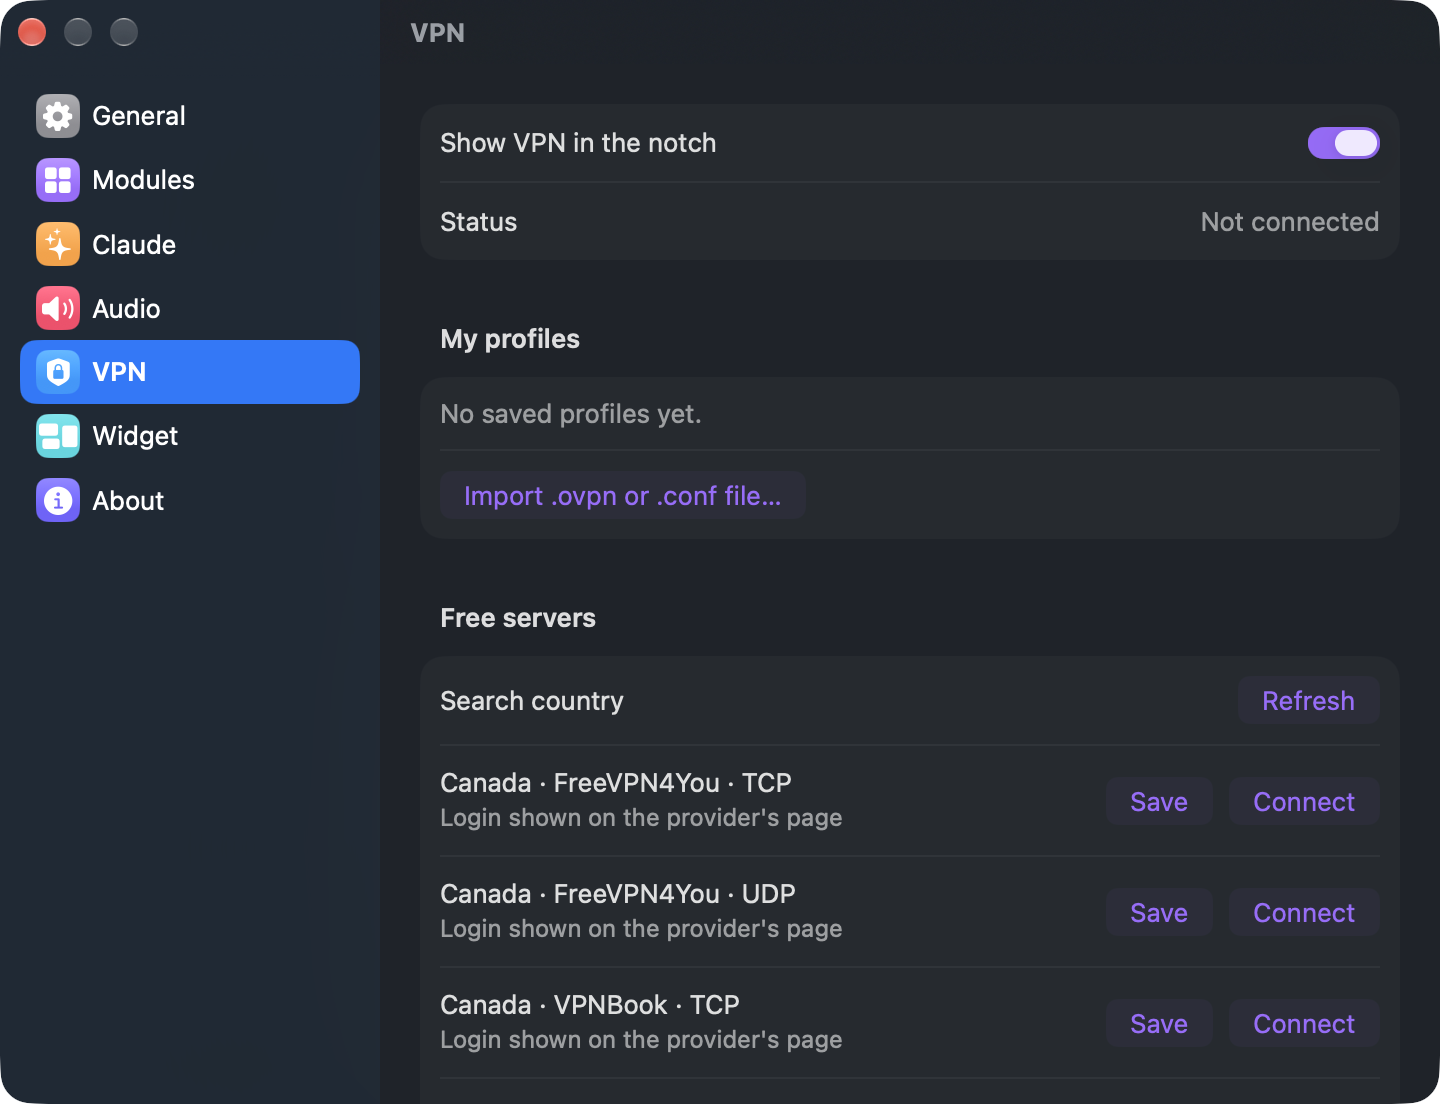
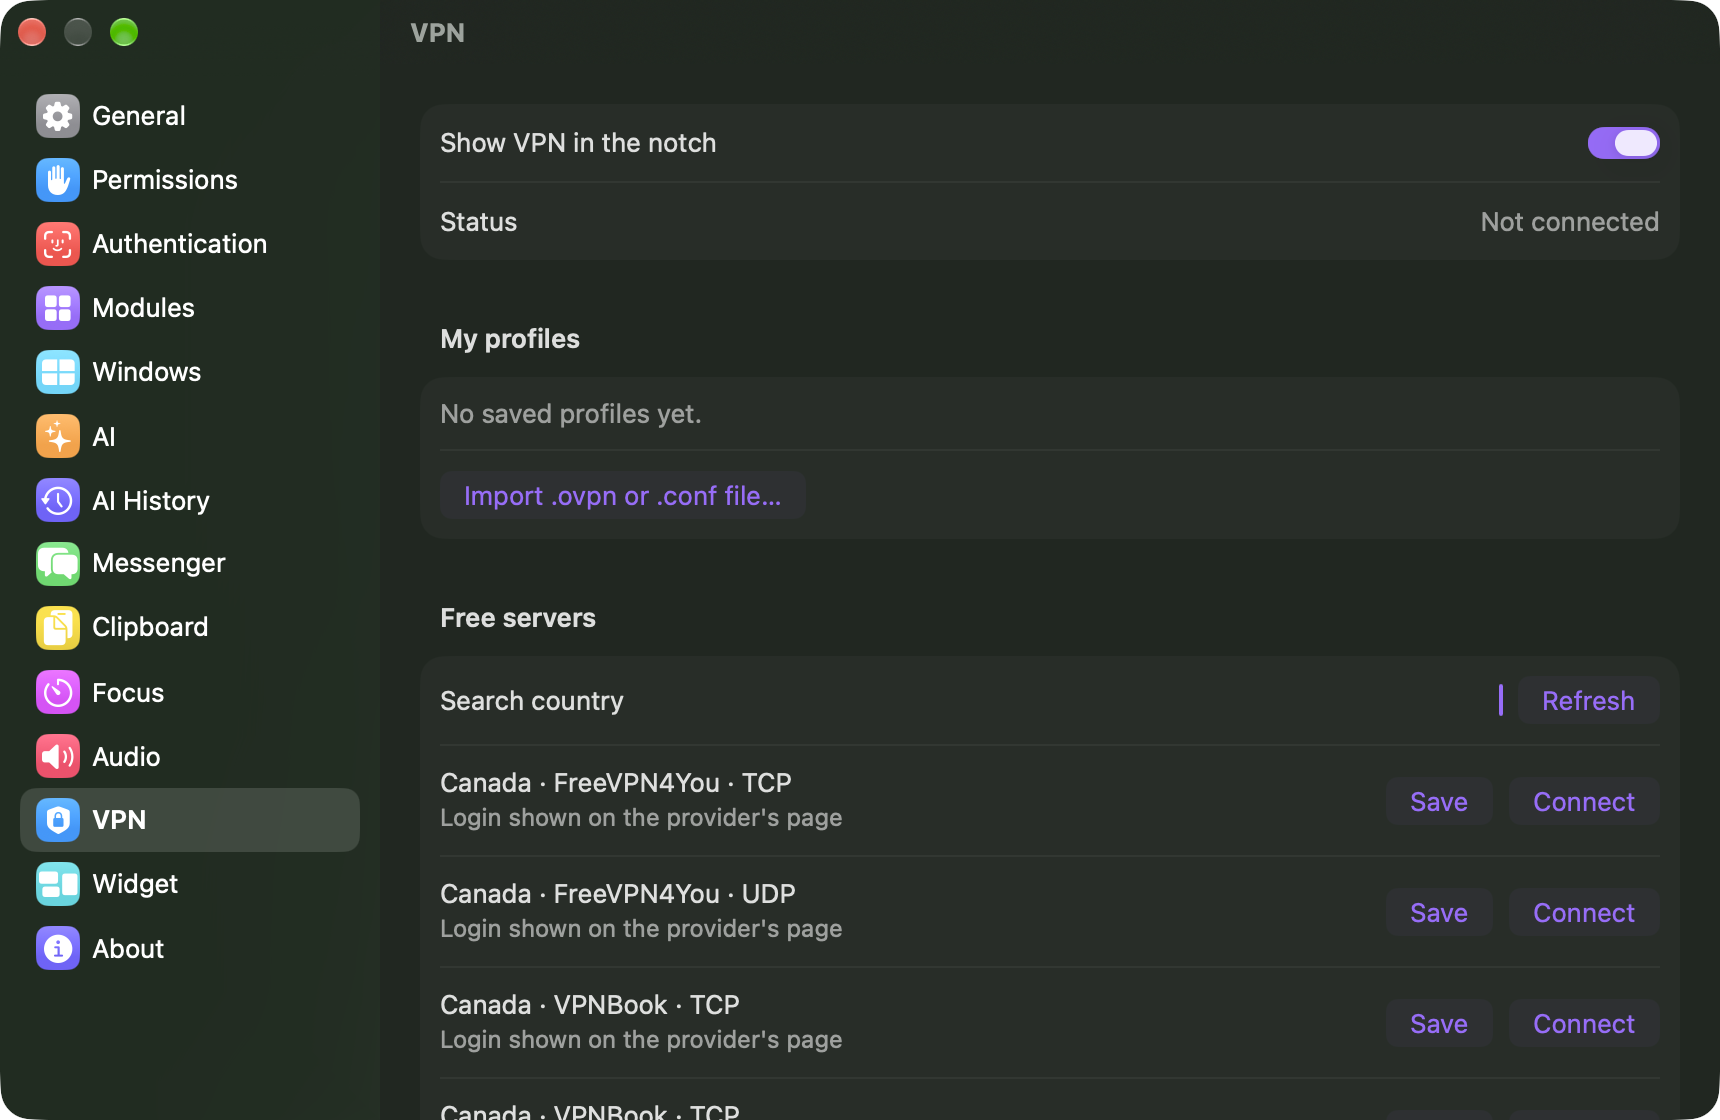
README: new screenshots with sample data (demo mode), no personal info

diff --git a/NotchApple/Core/DemoMode.swift b/NotchApple/Core/DemoMode.swift
@@ -1,0 +1,84 @@
+//
+//  DemoMode.swift
+//  Notch apple
+//
+//  Sample data for README screenshots, so they never show anyone's real
+//  clipboard, chats, notes, apps or Mac name. Only on when launched with
+//  `-demoMode YES`; nothing is read from or saved to disk while it's on.
+//
+
+import Foundation
+
+enum DemoMode {
+    static let isOn = UserDefaults.standard.bool(forKey: "demoMode")
+        && ProcessInfo.processInfo.arguments.contains("-demoMode")
+
+    static let deviceName = "MacBook Air"
+
+    static func minutesAgo(_ m: Double) -> Date { Date().addingTimeInterval(-m * 60) }
+
+    static var clipboard: [ClipItem] {
+        [
+            ClipItem(kind: .link, text: "https://github.com/AdityaJainDXB/NotchApples", sourceApp: "Safari", date: minutesAgo(1), pinned: true),
+            ClipItem(kind: .text, text: "Meeting moved to 3:30 — same room.", sourceApp: "Messages", date: minutesAgo(4)),
+            ClipItem(kind: .text, text: "brew install --cask notch-apple", sourceApp: "Terminal", date: minutesAgo(9)),
+            ClipItem(kind: .files, filePaths: ["/Users/demo/Desktop/Slides.key"], sourceApp: "Finder", date: minutesAgo(22)),
+            ClipItem(kind: .text, text: "The quick brown fox jumps over the lazy dog.", sourceApp: "Notes", date: minutesAgo(40)),
+            ClipItem(kind: .link, text: "https://developer.apple.com/design/human-interface-guidelines", sourceApp: "Safari", date: minutesAgo(65)),
+        ]
+    }
+
+    static var chats: [ChatSession] {
+        func msg(_ role: String, _ text: String, _ m: Double, model: String? = nil, shot: Bool = false) -> ChatSession.Message {
+            .init(role: role, text: text, hadScreenshot: shot, date: minutesAgo(m), model: model)
+        }
+        return [
+            ChatSession(provider: "gemini", model: "gemini-2.5-flash", started: minutesAgo(12), updated: minutesAgo(10), messages: [
+                msg("user", "Give me three ideas for a weekend project.", 12),
+                msg("assistant", "1. A tiny weather widget for your desktop.\n2. A habit tracker that lives in the menu bar.\n3. A photo booth app that turns snapshots into stickers.", 11.5, model: "gemini-2.5-flash"),
+                msg("user", "Which is the quickest to build?", 10.5),
+                msg("assistant", "The menu-bar habit tracker: one list, a checkbox per day, and a streak counter. An afternoon in SwiftUI.", 10, model: "gemini-2.5-flash"),
+            ]),
+            ChatSession(provider: "groq", model: "llama-3.3-70b-versatile", started: minutesAgo(90), updated: minutesAgo(88), messages: [
+                msg("user", "Explain what a Pomodoro timer is in one sentence.", 90),
+                msg("assistant", "It's a time-management method: 25 minutes of focused work, then a 5-minute break, repeated.", 88, model: "llama-3.3-70b-versatile"),
+            ]),
+            ChatSession(provider: "openRouter", model: "qwen/qwen3-32b:free", started: minutesAgo(300), updated: minutesAgo(298), messages: [
+                msg("user", "What's on my screen?", 300, shot: true),
+                msg("assistant", "You have a Keynote presentation open on a slide titled \"Q3 roadmap\", with three milestones in a timeline.", 298, model: "qwen/qwen3-32b:free"),
+            ]),
+        ]
+    }
+
+    static var notes: [Note] {
+        [
+            Note(text: "Weekend\n• Farmers market, 9 am\n• Call the bike shop\n• Finish the book club chapter", updated: minutesAgo(3)),
+            Note(text: "App ideas\nMenu-bar habit tracker with streaks.", updated: minutesAgo(120)),
+            Note(text: "Groceries\nOat milk, lemons, basil, pasta", updated: minutesAgo(1500)),
+        ]
+    }
+
+    static var appVolumes: [AppVolume] {
+        [
+            AppVolume(bundleID: "com.apple.Music", name: "Music", pid: -1, level: 100),
+            AppVolume(bundleID: "com.apple.Safari", name: "Safari", pid: -1, level: 70),
+            AppVolume(bundleID: "com.apple.FaceTime", name: "FaceTime", pid: -1, level: 120),
+            AppVolume(bundleID: "com.apple.podcasts", name: "Podcasts", pid: -1, level: 85),
+            AppVolume(bundleID: "com.apple.TV", name: "TV", pid: -1, level: 100),
+        ]
+    }
+
+    static var layouts: [SavedLayout] {
+        [
+            SavedLayout(name: "Coding", entries: [
+                .init(bundleID: "com.apple.dt.Xcode", appName: "Xcode", title: "", x: 0, y: 0, width: 1, height: 1),
+                .init(bundleID: "com.apple.Safari", appName: "Safari", title: "", x: 0, y: 0, width: 1, height: 1),
+                .init(bundleID: "com.apple.Terminal", appName: "Terminal", title: "", x: 0, y: 0, width: 1, height: 1),
+            ]),
+            SavedLayout(name: "Writing", entries: [
+                .init(bundleID: "com.apple.Pages", appName: "Pages", title: "", x: 0, y: 0, width: 1, height: 1),
+                .init(bundleID: "com.apple.Notes", appName: "Notes", title: "", x: 0, y: 0, width: 1, height: 1),
+            ]),
+        ]
+    }
+}

diff --git a/NotchApple/App/AppDelegate.swift b/NotchApple/App/AppDelegate.swift
@@ -35,15 +35,14 @@ final class AppDelegate: NSObject, NSApplicationDelegate {
         applyClipboardPreference()
         LiveActivityCenter.shared.start()
         showWelcomeOnFirstLaunch()
-        if SettingsManager.shared.windowsEnabled { WindowManager.shared.promptOnceIfNeeded() }
-        #if DEBUG
-        if ProcessInfo.processInfo.environment["NOTCH_PREVIEW_DROP"] != nil {
+        if SettingsManager.shared.windowsEnabled, !DemoMode.isOn { WindowManager.shared.promptOnceIfNeeded() }
+        // Screenshots: `-demoMode YES -openSettings <pane>` opens a Settings pane.
+        if DemoMode.isOn, UserDefaults.standard.bool(forKey: "showSnapZones") {
             DispatchQueue.main.asyncAfter(deadline: .now() + 1) { SnapDropController.shared.preview(.topLeft) }
         }
-        if ProcessInfo.processInfo.environment["NOTCH_PREVIEW_SETTINGS"] != nil {
-            DispatchQueue.main.asyncAfter(deadline: .now() + 1) { AppDelegate.openSettingsWindow(tab: .windows) }
+        if DemoMode.isOn, let pane = UserDefaults.standard.string(forKey: "openSettings").flatMap(SettingsTab.init(rawValue:)) {
+            DispatchQueue.main.asyncAfter(deadline: .now() + 1) { AppDelegate.openSettingsWindow(tab: pane) }
         }
-        #endif
 
         // Show/hide the status item live as the preference changes.
         applyStatusItemPreference()
@@ -72,7 +71,7 @@ final class AppDelegate: NSObject, NSApplicationDelegate {
         guard SettingsManager.shared.messengerEnabled else { return }
         MessengerNotifier.shared.requestAuthorizationIfNeeded()
         LocalP2PManager.shared.start()
-        if let room = UserDefaults.standard.string(forKey: "messenger.activeRoom") {
+        if !DemoMode.isOn, let room = UserDefaults.standard.string(forKey: "messenger.activeRoom") {
             WebP2PManager.shared.join(room)
         }
     }

diff --git a/NotchApple/Modules/Today/TodayView.swift b/NotchApple/Modules/Today/TodayView.swift
@@ -32,6 +32,20 @@ final class TodayModel: ObservableObject {
 
     func refresh(forceWeather: Bool = false) {
         battery = LiveActivityCenter.battery()
+        if DemoMode.isOn {
+            calendarAccess = .fullAccess
+            let day = Calendar.current.startOfDay(for: .now)
+            func at(_ h: Double) -> Date { day.addingTimeInterval(h * 3600) }
+            events = [
+                Event(id: "1", title: "Design review", start: .now.addingTimeInterval(-600), end: .now.addingTimeInterval(1800), isAllDay: false, color: .purple),
+                Event(id: "2", title: "Lunch with Sam", start: .now.addingTimeInterval(5400), end: .now.addingTimeInterval(9000), isAllDay: false, color: .orange),
+                Event(id: "3", title: "Gym", start: .now.addingTimeInterval(18000), end: .now.addingTimeInterval(21600), isAllDay: false, color: .green),
+            ]
+            if weather == nil || forceWeather {
+                Task { weather = try? await WeatherService.current(for: WeatherLocation(name: "Cupertino", latitude: 37.323, longitude: -122.032)) }
+            }
+            return
+        }
         loadEvents()
         LocationProvider.shared.refreshIfStale()
         // Weather changes slowly; refresh at most every 15 minutes.

diff --git a/NotchApple/Modules/Windows/WindowManager.swift b/NotchApple/Modules/Windows/WindowManager.swift
@@ -171,11 +171,7 @@ final class WindowManager: ObservableObject {
     // MARK: Permission
 
     func refreshTrust() {
-        isTrusted = AXIsProcessTrusted()
-        #if DEBUG
-        // Screenshot builds: show the full UI without the permission.
-        if ProcessInfo.processInfo.environment["NOTCH_PREVIEW_WINDOWS"] != nil { isTrusted = true }
-        #endif
+        isTrusted = AXIsProcessTrusted() || DemoMode.isOn
     }
 
     /// Shows the system prompt, which also adds Notch apple to the Accessibility
@@ -490,6 +486,7 @@ final class SavedLayoutStore: ObservableObject {
     }()
 
     private init() {
+        if DemoMode.isOn { layouts = DemoMode.layouts; return }
         if let data = try? Data(contentsOf: url), let saved = try? JSONDecoder().decode([SavedLayout].self, from: data) {
             layouts = saved
         }
@@ -499,6 +496,6 @@ final class SavedLayoutStore: ObservableObject {
     func delete(_ layout: SavedLayout) { layouts.removeAll { $0.id == layout.id }; save() }
 
     private func save() {
-        if let data = try? JSONEncoder().encode(layouts) { try? data.write(to: url, options: .atomic) }
+        if !DemoMode.isOn, let data = try? JSONEncoder().encode(layouts) { try? data.write(to: url, options: .atomic) }
     }
 }

diff --git a/NotchApple/Modules/Claude/ClaudeChatView.swift b/NotchApple/Modules/Claude/ClaudeChatView.swift
@@ -77,6 +77,12 @@ final class ClaudeChatModel: ObservableObject {
     /// Share the screen automatically when a question is about it (Settings → AI).
     @AppStorage("ai.autoScreen") var autoScreen = true
 
+    init() {
+        if DemoMode.isOn, let chat = DemoMode.chats.first {
+            messages = chat.messages.map { ChatMessage(role: $0.role == "user" ? .user : .assistant, text: $0.text) }
+        }
+    }
+
     func send() {
         let prompt = draft.trimmingCharacters(in: .whitespacesAndNewlines)
         guard !prompt.isEmpty, !isSending else { return }
@@ -290,7 +296,7 @@ struct ClaudeChatView: View {
             if let notice = model.notice {
                 Label(notice, systemImage: "camera.viewfinder").font(.caption).foregroundStyle(Theme.textSecondary).lineLimit(2)
             }
-            if let error = model.error ?? config.modelError {
+            if !DemoMode.isOn, let error = model.error ?? config.modelError {
                 Text(error).font(.caption).foregroundStyle(.red.opacity(0.9)).lineLimit(2)
             }
 

diff --git a/NotchApple/UI/SettingsView.swift b/NotchApple/UI/SettingsView.swift
@@ -315,7 +315,7 @@ private struct ClaudeSettings: View {
                         Button("Refresh list") { config.refreshModels() }
                         if config.loadingModels { ProgressView().controlSize(.small) }
                     }
-                    if let e = config.modelError { Text(e).font(.callout).foregroundStyle(.red) }
+                    if !DemoMode.isOn, let e = config.modelError { Text(e).font(.callout).foregroundStyle(.red) }
                 }
                 Toggle(isOn: Binding(get: { ClaudeChatModel.shared.autoScreen }, set: { ClaudeChatModel.shared.autoScreen = $0 })) {
                     Text("Share my screen when I ask about it")
@@ -753,7 +753,7 @@ private struct VPNSettings: View {
 // MARK: - Widget
 
 private struct WidgetSettings: View {
-    @State private var city = SharedStore.weatherLocation.name
+    @State private var city = DemoMode.isOn ? "Cupertino" : SharedStore.weatherLocation.name
     @State private var status: String?
     @StateObject private var location = LocationProvider.shared
 

diff --git a/NotchApple/Core/LocationProvider.swift b/NotchApple/Core/LocationProvider.swift
@@ -18,7 +18,7 @@ final class LocationProvider: NSObject, ObservableObject {
     /// When on (the default), weather follows your current location.
     @AppStorage("weather.useCurrentLocation") var useCurrentLocation = true
     @Published private(set) var status: CLAuthorizationStatus
-    @Published private(set) var cityName: String = SharedStore.weatherLocation.name
+    @Published private(set) var cityName: String = DemoMode.isOn ? "Cupertino" : SharedStore.weatherLocation.name
 
     private let manager = CLLocationManager()
     private let geocoder = CLGeocoder()
@@ -46,7 +46,7 @@ final class LocationProvider: NSObject, ObservableObject {
 
     /// Re-reads the location at most once an hour.
     func refreshIfStale(force: Bool = false) {
-        guard useCurrentLocation, isAuthorized else { return }
+        guard useCurrentLocation, isAuthorized, !DemoMode.isOn else { return }
         guard force || Date.now.timeIntervalSince(lastUpdate) > 3600 else { return }
         lastUpdate = .now
         manager.requestLocation()

diff --git a/NotchApple/Modules/Notes/NotesView.swift b/NotchApple/Modules/Notes/NotesView.swift
@@ -36,6 +36,7 @@ final class NotesStore: ObservableObject {
     private var saveWork: DispatchWorkItem?
 
     init() {
+        if DemoMode.isOn { notes = DemoMode.notes; selectedID = notes.first?.id; return }
         if let data = try? Data(contentsOf: url), let saved = try? JSONDecoder().decode([Note].self, from: data) {
             notes = saved.sorted { $0.updated > $1.updated }
         }
@@ -68,7 +69,7 @@ final class NotesStore: ObservableObject {
     private func scheduleSave() {
         saveWork?.cancel()
         let work = DispatchWorkItem { [weak self] in
-            guard let self, let data = try? JSONEncoder().encode(self.notes) else { return }
+            guard let self, !DemoMode.isOn, let data = try? JSONEncoder().encode(self.notes) else { return }
             try? data.write(to: self.url, options: .atomic)
         }
         saveWork = work

diff --git a/NotchApple/Modules/Claude/ChatHistory.swift b/NotchApple/Modules/Claude/ChatHistory.swift
@@ -58,6 +58,7 @@ final class ChatHistoryStore: ObservableObject {
     }()
 
     init() {
+        if DemoMode.isOn { sessions = DemoMode.chats; return }
         if let data = try? Data(contentsOf: url),
            let saved = try? JSONDecoder().decode([ChatSession].self, from: data) {
             sessions = saved.sorted { $0.updated > $1.updated }
@@ -102,7 +103,7 @@ final class ChatHistoryStore: ObservableObject {
     }
 
     private func save() {
-        guard let data = try? JSONEncoder().encode(sessions) else { return }
+        guard !DemoMode.isOn, let data = try? JSONEncoder().encode(sessions) else { return }
         try? data.write(to: url, options: .atomic)
     }
 }

diff --git a/NotchApple/Modules/Clipboard/ClipboardHistory.swift b/NotchApple/Modules/Clipboard/ClipboardHistory.swift
@@ -81,6 +81,7 @@ final class ClipboardHistory: ObservableObject {
     // MARK: Lifecycle
 
     func start() {
+        if DemoMode.isOn { items = DemoMode.clipboard; return }
         guard timer == nil else { return }
         load()
         lastChangeCount = NSPasteboard.general.changeCount
@@ -201,7 +202,7 @@ final class ClipboardHistory: ObservableObject {
     }
 
     private func save() {
-        guard persist, let data = try? JSONEncoder().encode(items) else { return }
+        guard persist, !DemoMode.isOn, let data = try? JSONEncoder().encode(items) else { return }
         try? data.write(to: indexURL, options: .atomic)
     }
 

diff --git a/NotchApple/Modules/Windows/SnapDropController.swift b/NotchApple/Modules/Windows/SnapDropController.swift
@@ -130,15 +130,13 @@ final class SnapDropController {
 
     // MARK: Overlay
 
-    #if DEBUG
-    /// Screenshot builds: show the drop zones with one highlighted.
+    /// Screenshots (demo mode): show the drop zones with one highlighted.
     func preview(_ layout: SnapLayout) {
         guard let screen = NSScreen.main else { return }
         show(on: screen)
         model.highlighted = layout
     }
-    #endif
-
+    
     private func show(on screen: NSScreen) {
         let panel = self.panel ?? makePanel()
         self.panel = panel

diff --git a/NotchApple/Modules/Sharing/PairDropService.swift b/NotchApple/Modules/Sharing/PairDropService.swift
@@ -55,7 +55,7 @@ final class PairDropService: ObservableObject {
     private var listener: NWListener?
     private var browser: NWBrowser?
     private let queue = DispatchQueue(label: "pairdrop")
-    private let deviceName = Host.current().localizedName ?? "Mac"
+    private let deviceName = DemoMode.isOn ? DemoMode.deviceName : (Host.current().localizedName ?? "Mac")
 
     static func newCode() -> String { String(format: "%06d", Int.random(in: 0...999_999)) }
 
